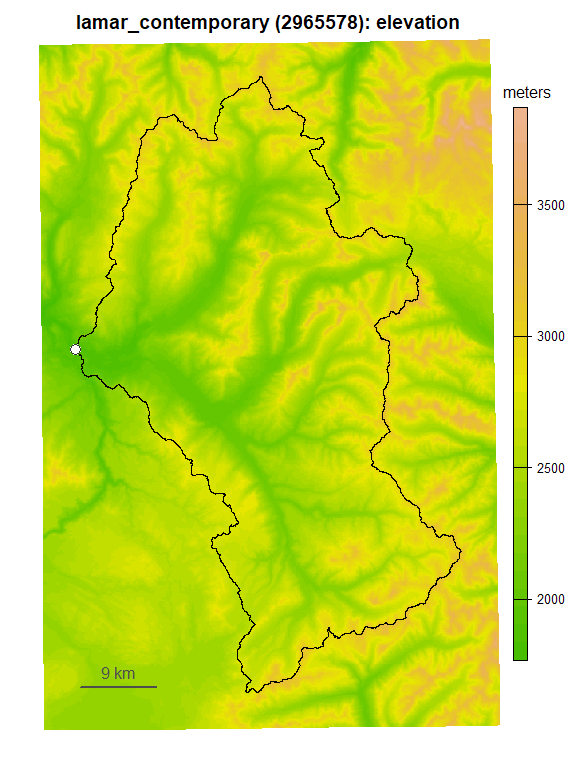
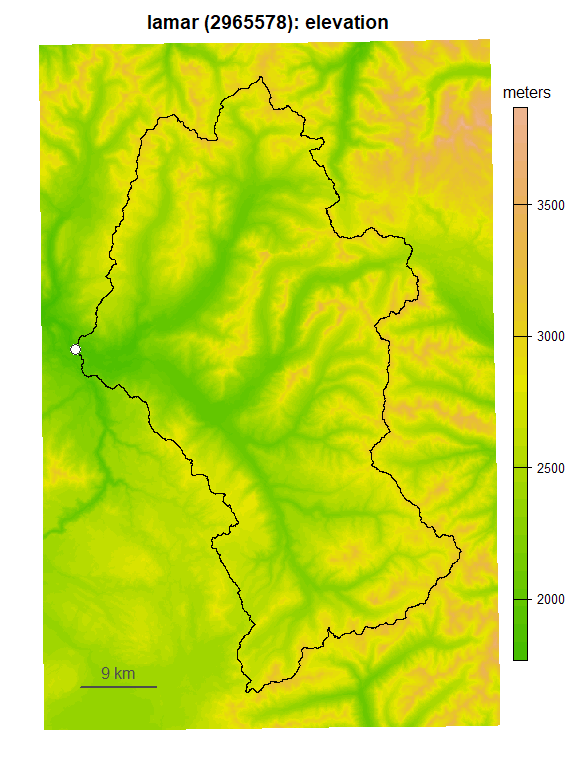
changed location of test directory and swapped load_all for library

Changed region(s): [[0.125, 0.0, 0.8125, 0.0625]]

diff --git a/vignettes/articles/lamar.md b/vignettes/articles/lamar.md
@@ -192,18 +192,12 @@ default argument `overwrite=FALSE`
 
 ``` r
 save_catch(lamar_dir)
-#>                                                     edge 
-#>          "D:/rswat_data/lamar_contemporary/nhd/edge.csv" 
-#>                                                   outlet 
-#>    "D:/rswat_data/lamar_contemporary/nhd/outlet.geojson" 
-#>                                                catchment 
-#> "D:/rswat_data/lamar_contemporary/nhd/catchment.geojson" 
-#>                                                     flow 
-#>      "D:/rswat_data/lamar_contemporary/nhd/flow.geojson" 
-#>                                                     lake 
-#>      "D:/rswat_data/lamar_contemporary/nhd/lake.geojson" 
-#>                                                 boundary 
-#>  "D:/rswat_data/lamar_contemporary/nhd/boundary.geojson"
+#>                                        edge                                      outlet 
+#>          "D:/rswat_data/lamar/nhd/edge.csv"    "D:/rswat_data/lamar/nhd/outlet.geojson" 
+#>                                   catchment                                        flow 
+#> "D:/rswat_data/lamar/nhd/catchment.geojson"      "D:/rswat_data/lamar/nhd/flow.geojson" 
+#>                                        lake                                    boundary 
+#>      "D:/rswat_data/lamar/nhd/lake.geojson"  "D:/rswat_data/lamar/nhd/boundary.geojson"
 ```
 
 All of the `get_.` functions in the `rswat_maker` package have a
@@ -522,7 +516,7 @@ a list of three subcatchment datasets
 
 ``` r
 split_result = get_split(lamar_dir)
-#> loading gage points in D:/rswat_data/lamar_contemporary/nwis/flow_ft/station.geojson
+#> loading gage points in D:/rswat_data/lamar/nwis/flow_ft/station.geojson
 #> computing catchment areas for 4 input gage locations
 #>   |=========================================================| 100%      
 #> resolving stream order for 4 COMIDs
@@ -544,9 +538,9 @@ by passing one of these subdirectory paths to `plot_catch` or
 # subcatchment paths
 sub_dir = save_split(lamar_dir)[['sub']] 
 print(sub_dir)
-#> [1] "D:/rswat_data/lamar_contemporary/split/lamar_river_nr_tower_ranger_station_ynp"   
-#> [2] "D:/rswat_data/lamar_contemporary/split/soda_butte_cr_at_park_bndry_at_silver_gate"
-#> [3] "D:/rswat_data/lamar_contemporary/split/soda_butte_cr_nr_lamar_ranger_station_ynp"
+#> [1] "D:/rswat_data/lamar/split/lamar_river_nr_tower_ranger_station_ynp"   
+#> [2] "D:/rswat_data/lamar/split/soda_butte_cr_at_park_bndry_at_silver_gate"
+#> [3] "D:/rswat_data/lamar/split/soda_butte_cr_nr_lamar_ranger_station_ynp"
 
 # reordered for presentation
 for(d in sub_dir[c(1,3,2)]) plot_catch(d)
@@ -625,16 +619,16 @@ argument, to get the paths written
 qswat_paths = save_qswat(lamar_dir, sub=TRUE)
 qswat_paths |> head(1) |> print()
 #> $lamar_river_nr_tower_ranger_station_ynp
-#>                                                                                             outlet 
-#>  "D:/rswat_data/lamar_contemporary/split/lamar_river_nr_tower_ranger_station_ynp/qswat/outlet.shp" 
-#>                                                                                                dem 
-#>     "D:/rswat_data/lamar_contemporary/split/lamar_river_nr_tower_ranger_station_ynp/qswat/dem.tif" 
-#>                                                                                               soil 
-#>    "D:/rswat_data/lamar_contemporary/split/lamar_river_nr_tower_ranger_station_ynp/qswat/soil.tif" 
-#>                                                                                               land 
-#> "D:/rswat_data/lamar_contemporary/split/lamar_river_nr_tower_ranger_station_ynp/qswat/landuse.tif" 
-#>                                                                                        land_lookup 
-#> "D:/rswat_data/lamar_contemporary/split/lamar_river_nr_tower_ranger_station_ynp/qswat/landuse.csv"
+#>                                                                                outlet 
+#>  "D:/rswat_data/lamar/split/lamar_river_nr_tower_ranger_station_ynp/qswat/outlet.shp" 
+#>                                                                                   dem 
+#>     "D:/rswat_data/lamar/split/lamar_river_nr_tower_ranger_station_ynp/qswat/dem.tif" 
+#>                                                                                  soil 
+#>    "D:/rswat_data/lamar/split/lamar_river_nr_tower_ranger_station_ynp/qswat/soil.tif" 
+#>                                                                                  land 
+#> "D:/rswat_data/lamar/split/lamar_river_nr_tower_ranger_station_ynp/qswat/landuse.tif" 
+#>                                                                           land_lookup 
+#> "D:/rswat_data/lamar/split/lamar_river_nr_tower_ranger_station_ynp/qswat/landuse.csv"
 ```
 
 These files require no further transformation for QSWAT+. They are
@@ -738,7 +732,7 @@ completed steps, as it does here,
 ``` r
 # read the last few lines of logfile
 qswat_paths[['log']] |> readLines() |> tail() |> cat()
-#> Writing aquifers and deep aquifers tables ... HRUs done: 359 HRUs formed with 229 channels in 13 subbasins.  writing D:/rswat_data/lamar_contemporary/split/soda_butte_cr_nr_lamar_ranger_station_ynp/qswat/qswat_output.json  >> finished running QSWAT+
+#> Writing aquifers and deep aquifers tables ... HRUs done: 359 HRUs formed with 229 channels in 13 subbasins.  writing D:/rswat_data/lamar/split/soda_butte_cr_nr_lamar_ranger_station_ynp/qswat/qswat_output.json  >> finished running QSWAT+
 ```
 
 “output” is another JSON record listing important project-related paths,
